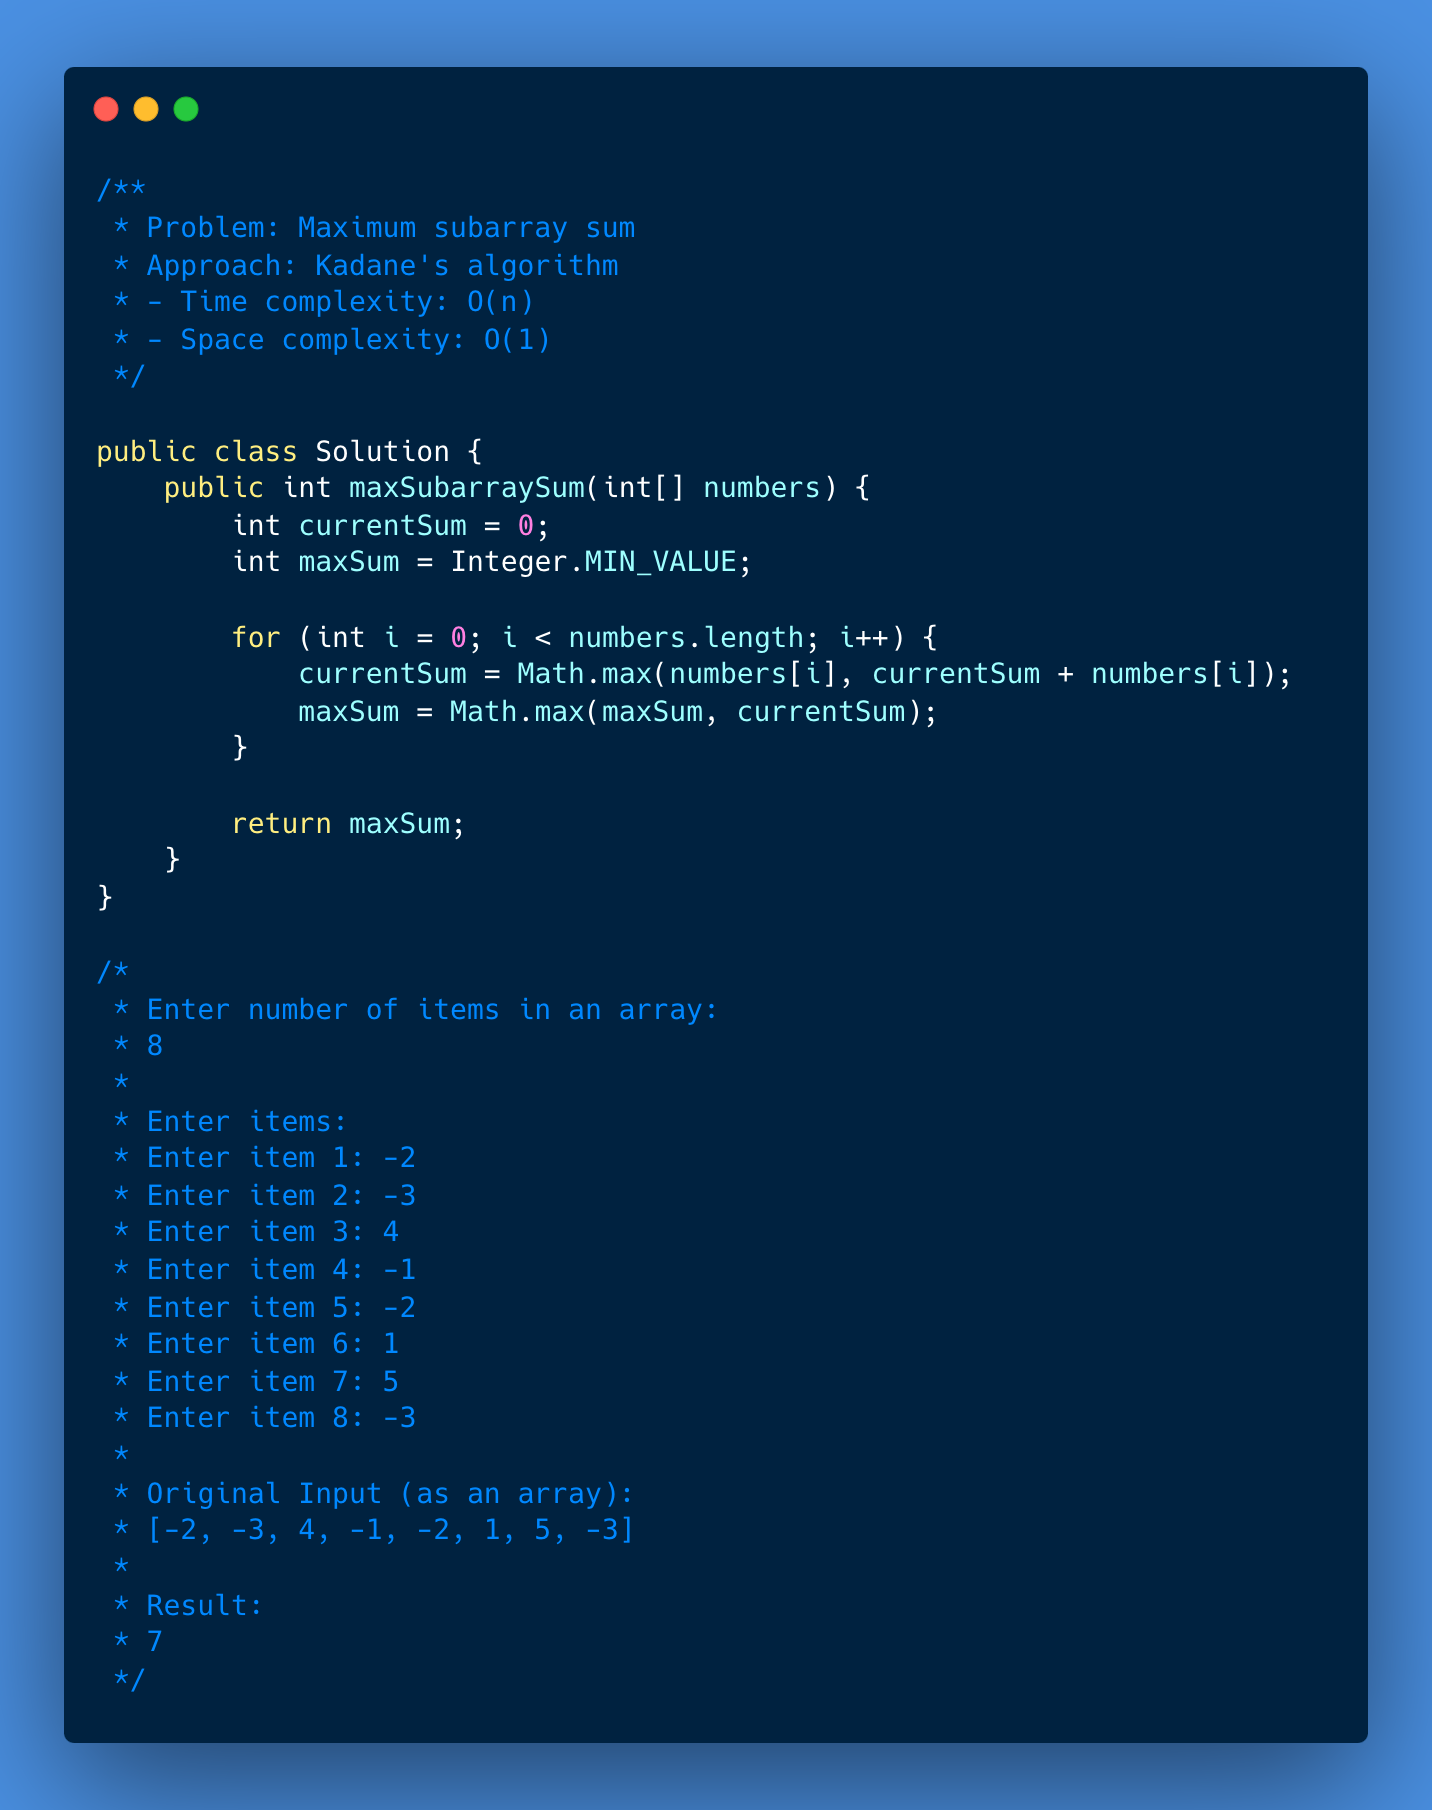
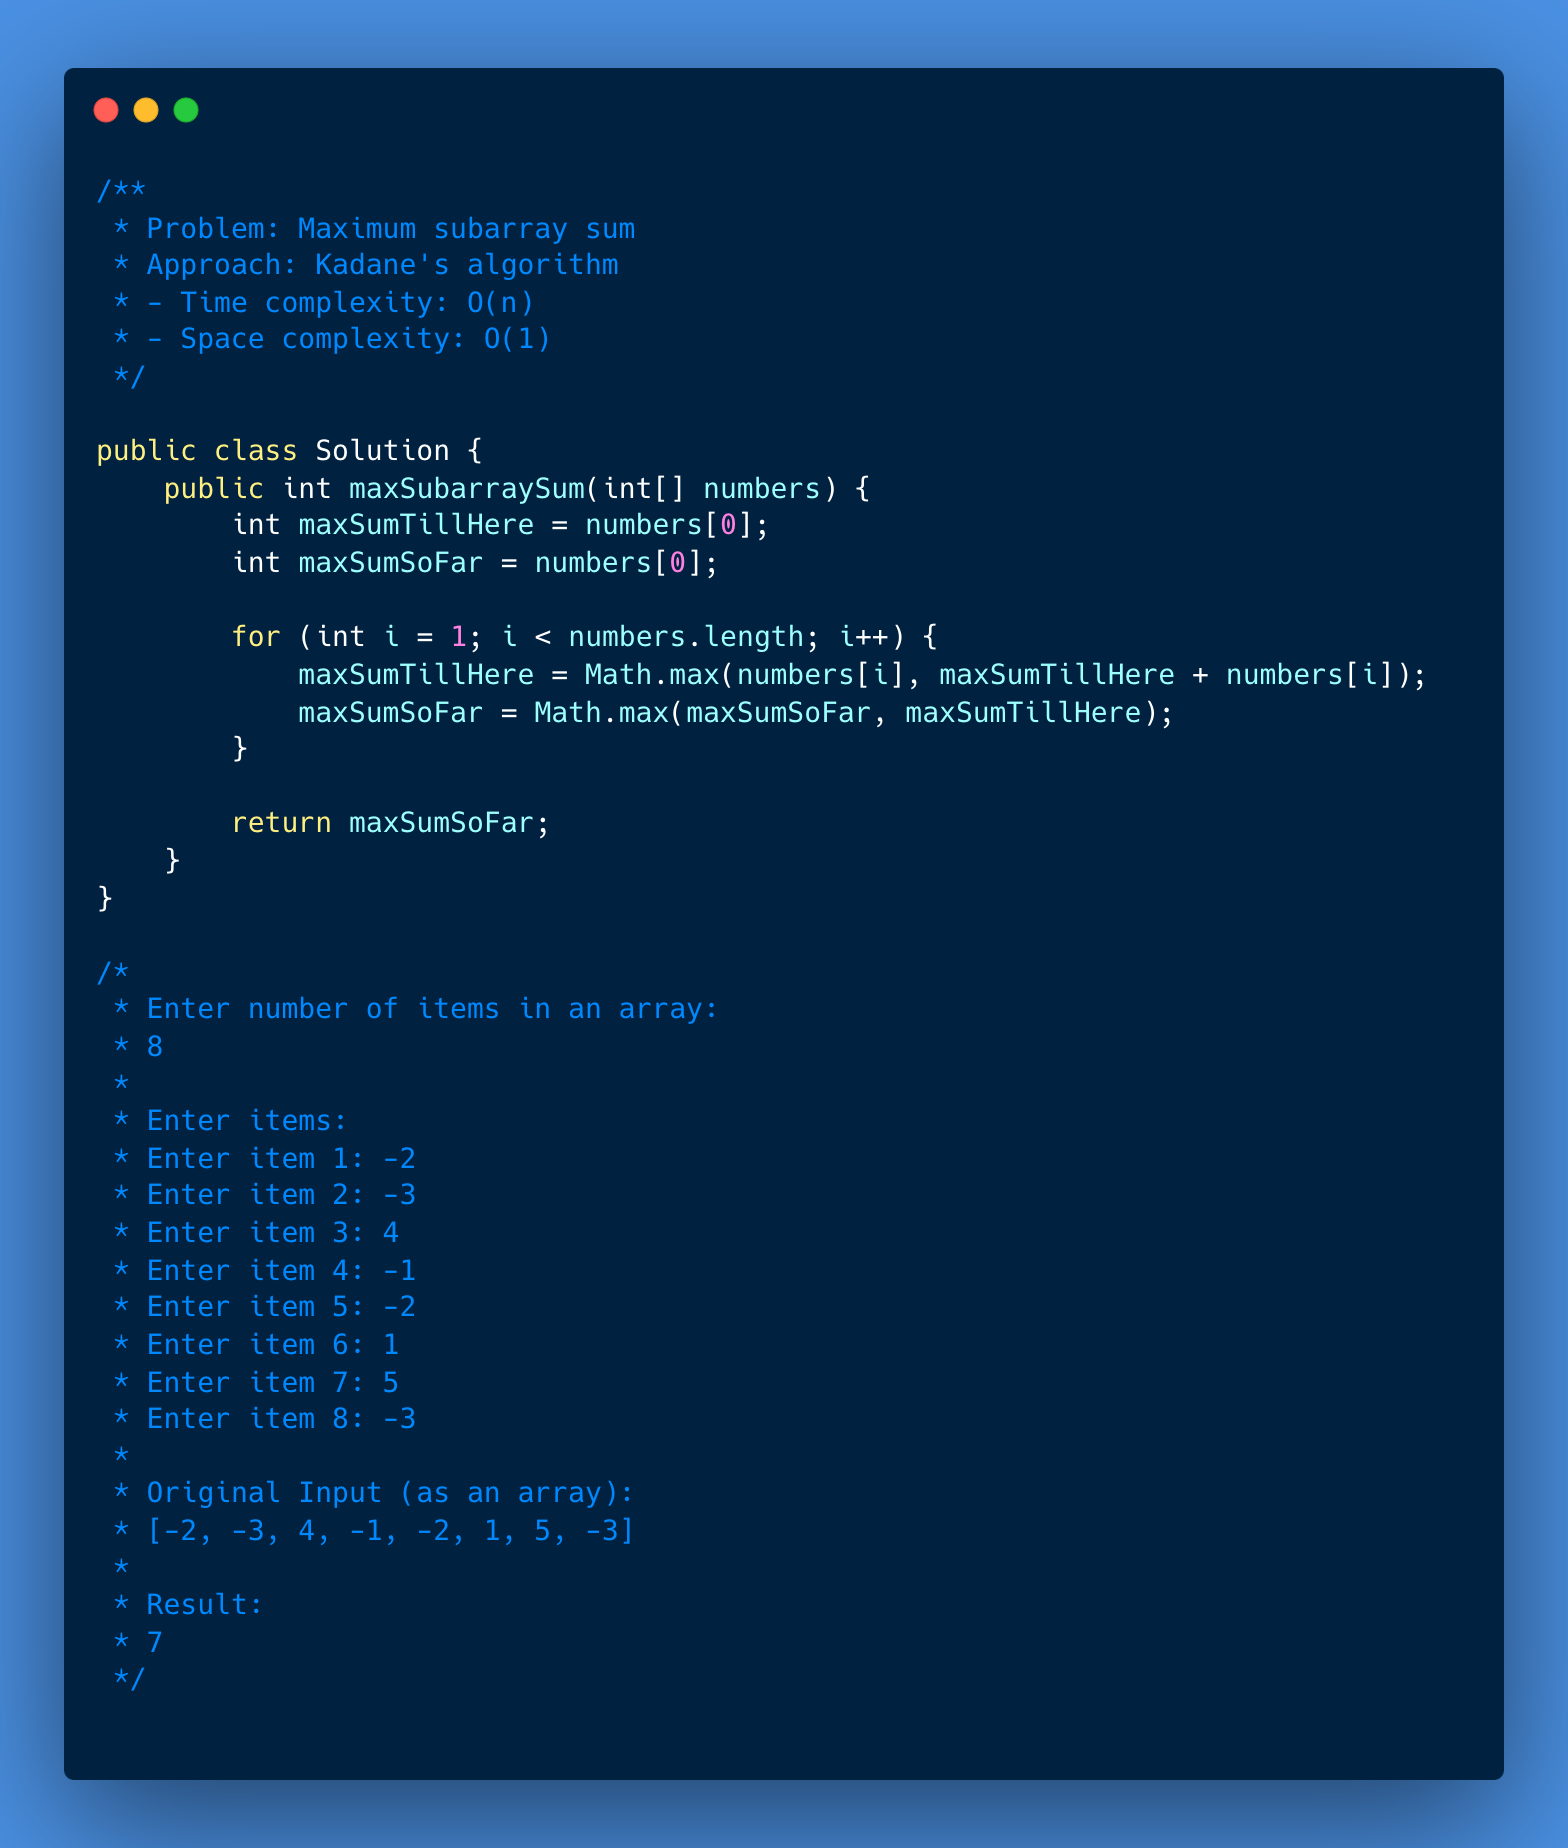
kadane's algo updates based on new learnings

diff --git a/048-max-subarray-sum/003-solution/Solution.java b/048-max-subarray-sum/003-solution/Solution.java
@@ -7,15 +7,15 @@
 
 public class Solution {
     public int maxSubarraySum(int[] numbers) {
-        int currentSum = 0;
-        int maxSum = Integer.MIN_VALUE;
+        int maxSumTillHere = numbers[0];
+        int maxSumSoFar = numbers[0];
 
-        for (int i = 0; i < numbers.length; i++) {
-            currentSum = Math.max(numbers[i], currentSum + numbers[i]);
-            maxSum = Math.max(maxSum, currentSum);
+        for (int i = 1; i < numbers.length; i++) {
+            maxSumTillHere = Math.max(numbers[i], maxSumTillHere + numbers[i]);
+            maxSumSoFar = Math.max(maxSumSoFar, maxSumTillHere);
         }
 
-        return maxSum;
+        return maxSumSoFar;
     }
 }
 
